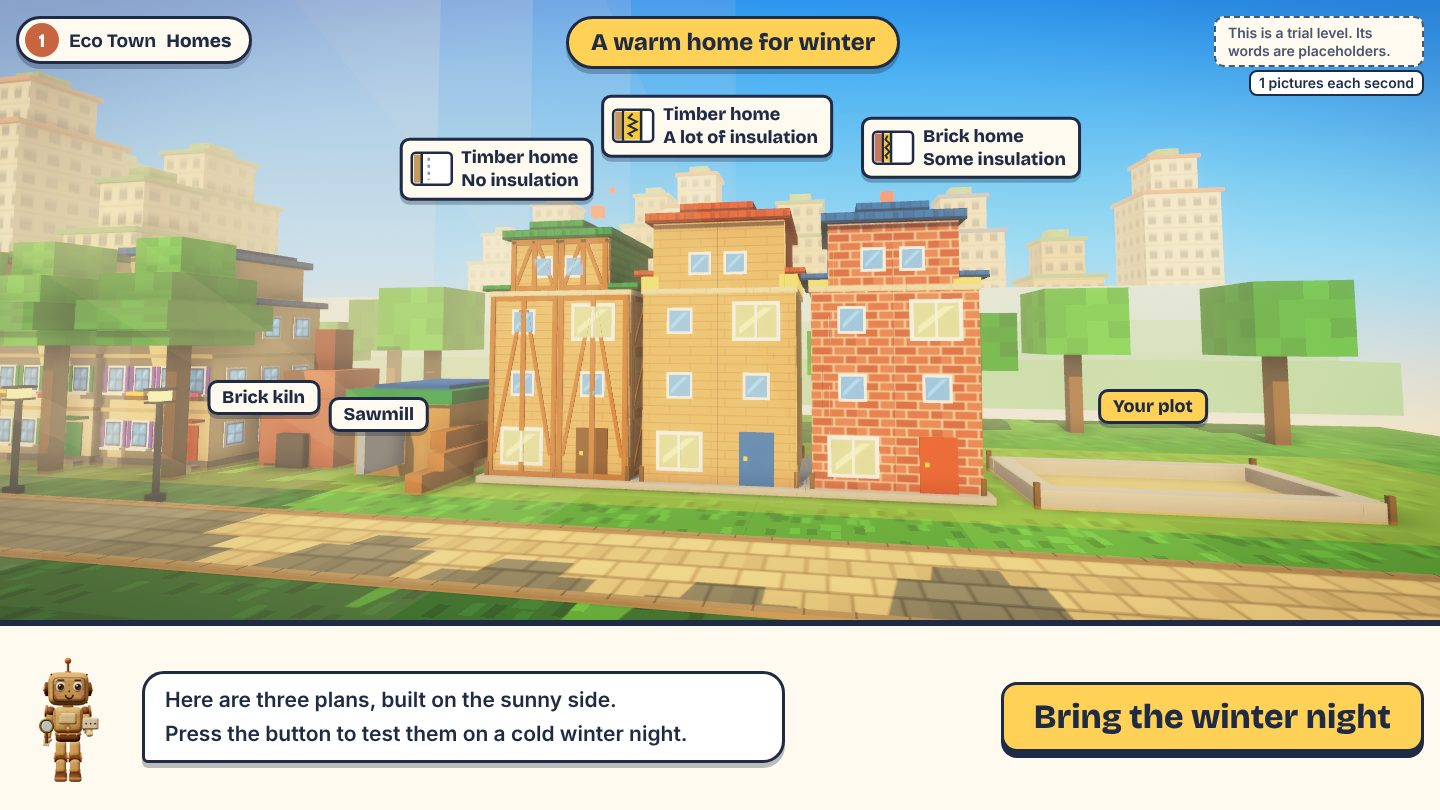
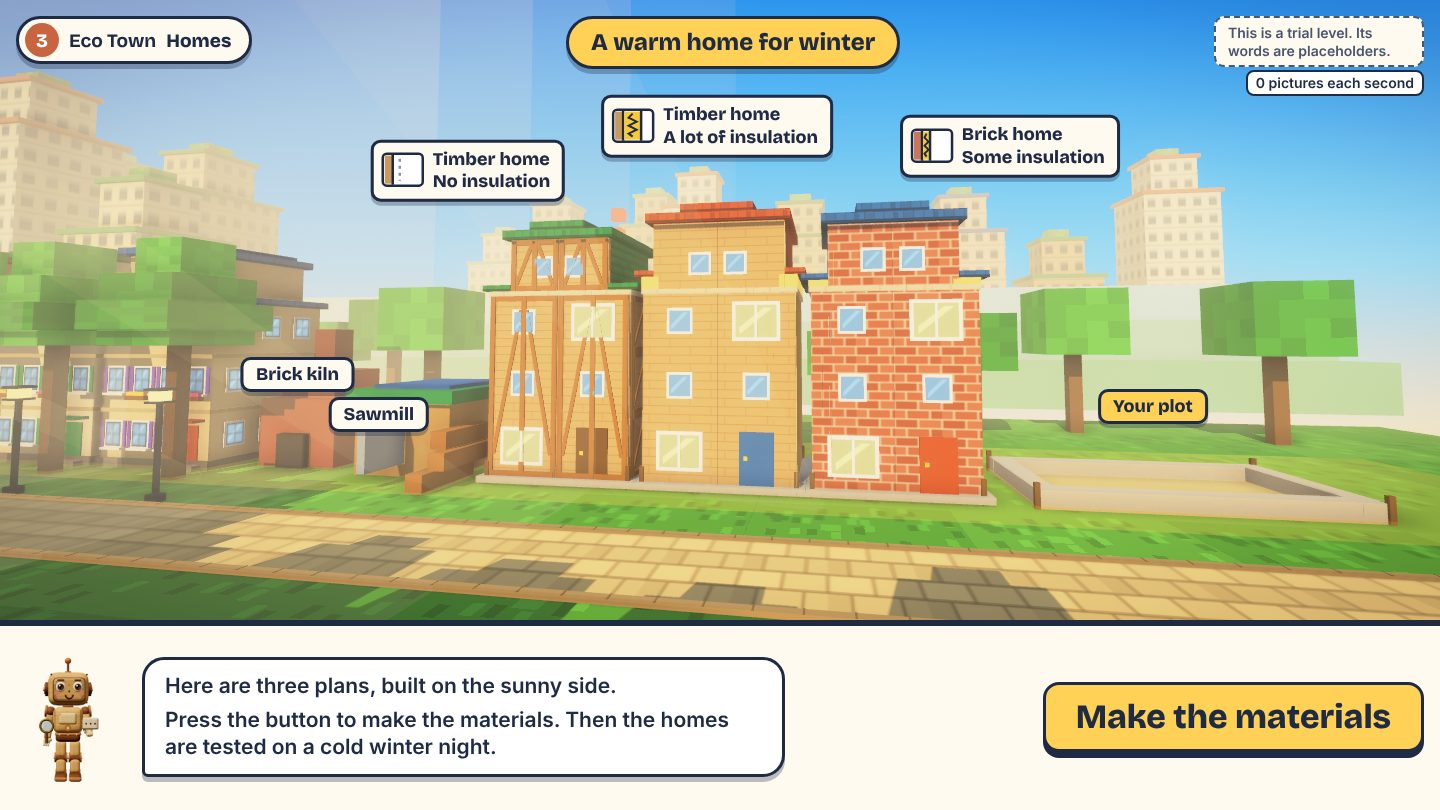
Homes: the round of rework finished, checked from start to finish, and recorded again
The level was played through four times on two full paths, and every run reached
the last closing picture. Faults seen in the pictures were repaired: the tags of the
plans no longer overlap on a narrow screen, the signs behind the result cards are
hidden, the room signs go when the front wall closes the home, and the sign "Warm"
is no longer hidden under the band in the closing picture. Both paths were recorded
again, the pictures of the first build's third path were removed, and NOTES.md now
says what was run, what was not, and what still stands in the way.

Claude-Session: https://claude.ai/code/session_01Ecde5Lvgabpd1qnHSP6bP6

diff --git a/docs/redesign/concepts/trial/trial.js b/docs/redesign/concepts/trial/trial.js
@@ -167,13 +167,15 @@ function town() { const s = newScene(58, { sun: [-10, 36, 48], tx: -22 }), g = s
       { const Zs = (zz) => (s.side ? -zz : zz), fireM = new THREE.MeshBasicMaterial({ color: '#3a2a22' }), cart = (x, zz, load) => { const c = group(wk, x + 34, 0, Zs(zz)); blk(c, 0, 0, 1.5, 0.9, 0.3, 0.2, '#6b4a2c', { mat: M('#6b4a2c', { raw: true }) }); for (const a of [-0.5, 0.5]) for (const b of [-0.5, 0.5]) blk(c, a, b, 0.4, 0.14, 0, 0.4, '#2b3a55', { mat: M('#2b3a55', { raw: true }) }); for (let k = 0; k < 3; k++) blk(c, 0, 0, 1.3 - k * 0.2, 0.7, 0.5 + k * 0.22, 0.22, load, { mat: M(k % 2 ? load : tone(load), { raw: true }) }); c.visible = false; return c; };
         const log = C(-32, -7, 0.6, 2.6, 0.3, 0.6, '#8a5a34'), clay = C(KX, -7, 1.1, 1.1, 0.1, 0.7, '#b98a6a'), fire = blk(wk, KX + 34, Zs(1.56), 0.8, 0.22, 0.12, 0.85, '#000', { shadow: false, mat: fireM }); log.visible = clay.visible = false;
         s.wparts = { log, clay, saw, sawY: saw.position.y, fireM, fire, carts: [cart(-31.8, 4.3, '#c99a5e'), cart(KX - 0.4, 4.5, '#c9775a')], cx: [-31.8 + 34, KX - 0.4 + 34], put: (m, zz) => { m.position.z = Zs(zz); } }; }
-      s.wplates = [plate(s, T.works[0], [WX + 3.4, 2.6, z + (s.side ? -5 : 5)]), plate(s, T.works[1], [KWX, 3.2, z + (s.side ? -4.4 : 4.4)])]; } plots[s.side].forEach((p, k) => { p.mark.visible = false; });
+      s.wplates = [plate(s, T.works[0], [WX + 3.4, 2.6, z + (s.side ? -5 : 5)]), plate(s, T.works[1], [KWX + 2, 4.4, z + (s.side ? -4.4 : 4.4)])]; } plots[s.side].forEach((p, k) => { p.mark.visible = false; });
     for (let i = 0; i < 3; i++) { const x = PX[s.side ? i + 1 : 3 - i], hm = makeHome(g, { w: 7.3, d: 7, brick: PM[i] === 1, mat: MAT[PM[i]], ins: INSUL[i], roofC: ROOF[[2, 0, 1][i]], doorC: tone(DOOR[i]), M, tw, done: true, simple: true, sunny: () => s.side === 0, people: TESTERS[i] }), h = hm.g; h.position.set(x, 0.1, z); h.rotation.y = s.side ? Math.PI : 0; h.scale.setScalar(0.01);
       const cloud = []; for (let k = 0; k < [0, 0, 5][i]; k++) { const sz = 2.6 + hash(k, i) * 1.6, m = blk(g, 0, 0, sz, sz, 0, sz * 0.8, '#6d6763', { shadow: false, mat: soft(['#5f5a54', '#6d675f', '#514d48'][k % 3], 0.86) }); m.visible = false;
         cloud.push({ m, sz, from: [KWX, 7.6, z], to: [KWX + (hash(k, 5) - 0.5) * 8, 9.2 + k * 0.6 + hash(k, 9) * 1.2, z + (hash(k, 3) - 0.5) * 4], at: 0.3 + k * 0.55 }); }
-      const pl = plate(s, T.short[i], [x + (s.side ? -1 : 1) * (i - 1) * 3.4, i === 1 ? 15.8 : 14.2, z + (s.side ? -3.6 : 3.6)], 'pl'); pl.el.innerHTML = planTag(i); samples.push({ h, hm, cloud, plate: pl }); }
+      const pl = plate(s, T.short[i], [x + (s.side ? -1 : 1) * (i - 1) * 5, i === 1 ? 15.8 : 14.2, z + (s.side ? -3.6 : 3.6)], 'pl'); pl.el.innerHTML = planTag(i); samples.push({ h, hm, cloud, plate: pl }); }
     glide(VIEW.plans[s.side], 1.6); for (const q of samples) { beep(360, 0.07); await pop(q.h); if (me !== run) return; } };
-  s.showNames = () => { for (const o of [...samples.map((q) => q.plate), ...s.wplates]) o.hide = false; };
+  // the signs under the open homes are repeated on the result cards, which would cover them and leave only their edges showing, so they are hidden while the cards are up
+  s.hideFeel = () => { for (const q of samples) { if (q.feel) q.feel.hide = true; else q.noFeel = true; } };
+  s.showNames = () => { for (const o of samples.map((q) => q.plate)) o.hide = false; };   // the signs of the sawmill and the kiln are not needed on the results, where the cards would cut them off
   let cloudT = -1; const setClouds = (tt) => { for (const q of samples) for (const p of q.cloud) { const k = ease(Math.max(0, Math.min(1, (tt - p.at) / 2.4))); p.m.visible = k > 0; p.m.position.set(p.from[0] + (p.to[0] - p.from[0]) * k, p.from[1] + (p.to[1] - p.from[1]) * k, p.from[2] + (p.to[2] - p.from[2]) * k); p.m.scale.set(p.sz * (0.3 + 0.7 * k), p.sz * 0.8 * (0.3 + 0.7 * k), p.sz * (0.3 + 0.7 * k)); } };
   // the test: the materials are made and the pollution rises; then the cold night comes and the windows show the warmth
   s.run = async (stage, meter = () => {}, look = () => {}) => { const me = run, V = VIEW.plans[s.side], dz = s.side ? -1 : 1; famPlate.hide = plotPlate.hide = true; for (const q of samples) q.plate.hide = true; await glide({ eye: [-32.5, 3.5, SIDEZ[s.side] + dz * 20.5], at: [-40, 5.6, SIDEZ[s.side]], fov: 42 }, 1.6);
@@ -186,7 +188,7 @@ function town() { const s = newScene(58, { sun: [-10, 36, 48], tx: -22 }), g = s
     // the front walls open by themselves, and the camera walks slowly past the three homes, so that the family in each one is seen before any card
     { const z = SIDEZ[s.side], near = (x) => ({ eye: [x + (s.side ? 1 : -1), 7, z + dz * 21.5], at: [x + (s.side ? 3.6 : -3.6), 7.5, z], fov: 53 }); look(); for (const o of [...s.wplates, ...samples.map((q) => q.plate)]) o.hide = true; await glide(near(samples[0].h.position.x), 1.5); if (me !== run) return false; for (const i of [0, 1, 2]) s.openSample(i); await wait(2.6); await gate('open-1'); if (me !== run) return false; await glide(near(samples[1].h.position.x), 2.3); await gate('open-2'); await glide(near(samples[2].h.position.x), 2.3); if (me !== run) return false; await wait(1.6); await gate('open-3'); } return me === run; };
   // a sample home opens when the child taps it. The people inside are seen first, and the sign comes a moment later
-  s.openSample = (i) => { const q = samples[i], lv = level(i), me = run; if (q.open) return; q.open = true; beep(700, 0.15); tw(1.3, (k) => q.hm.setOpen(back(k))).then(() => wait(0.5)).then(() => { if (me === run && !q.feel) { q.feel = plate(s, '', [q.h.position.x + (s.side ? 2.5 : -2.5), 0.7, SIDEZ[s.side] + (s.side ? -6.3 : 6.3)], lv === 'g' ? 'pl on' : 'pl'); q.feel.el.innerHTML = `${PLANS[i].icon}<span><b>${esc(PLANS[i].lines[1])}</b><b>${esc(T.feel[lv])}</b></span>`; } }); };
+  s.openSample = (i) => { const q = samples[i], lv = level(i), me = run; if (q.open) return; q.open = true; beep(700, 0.15); tw(1.3, (k) => q.hm.setOpen(back(k))).then(() => wait(0.5)).then(() => { if (me === run && !q.feel && !q.noFeel) { q.feel = plate(s, '', [q.h.position.x + (s.side ? 2.5 : -2.5), 0.7, SIDEZ[s.side] + (s.side ? -6.3 : 6.3)], lv === 'g' ? 'pl on' : 'pl'); q.feel.el.innerHTML = `${PLANS[i].icon}<span><b>${esc(PLANS[i].lines[1])}</b><b>${esc(T.feel[lv])}</b></span>`; } }); };
 
   // ---- the family's home, built by the child ----
   let H = null;
@@ -237,12 +239,12 @@ function town() { const s = newScene(58, { sun: [-10, 36, 48], tx: -22 }), g = s
       if (me === run) next(); };
     for (const q of all) if (q !== front) hitBox(s, q.wg, 0, 0, -T0 / 2 - 0.4, q.def.len, q.hh, T0 + 1.3, () => !s.done && !busy && setOf() === hm.walls[q.f] && q.n === LAYER[tool], () => wallTap(q)).frame = q.mark;
     // the front wall goes on with all its layers and its windows. Where the sun reaches them, a shaft of sunlight comes in
-    hitBox(s, hg, 0, Y0, HD / 2 - 0.2, HW, TOP - Y0, 1.6, () => !s.done && !busy && phases[ph] === 'F', async () => { busy = true; note = ''; show(); for (const key of seq) { front.n++; beep(380 + front.n * 90, 0.12); await Promise.all(hm.leaves.map((l) => rise(l[KEY[key]], 0.36))); } if (me !== run) return; const sunny = sd === 0;
+    hitBox(s, hg, 0, Y0, HD / 2 - 0.2, HW, TOP - Y0, 1.6, () => !s.done && !busy && phases[ph] === 'F', async () => { busy = true; note = ''; show(); for (const key of seq) { front.n++; beep(380 + front.n * 90, 0.12); await Promise.all(hm.leaves.map((l) => rise(l[KEY[key]], 0.36))); } if (me !== run) return; const sunny = sd === 0; for (const q of roomPlates) q.hide = true;   // the rooms cannot be seen behind the front wall, so their signs go
       for (const i of [0, 4]) { const q = hm.spots[i]; hm.putWindow(i, sunny); H.wins.push(i); pop(q.p); if (sunny) { const w = hg.localToWorld(new THREE.Vector3(...q.c)), b = new THREE.Mesh(new THREE.BoxGeometry(1.9, 1.5, 9), beamMat); b.position.copy(w).addScaledVector(sunDir, 4.6); b.lookAt(w.clone().addScaledVector(sunDir, 20)); g.add(b); H.beams.push(b); } }
       beep(sunny ? 880 : 520, 0.14); if (sunny) setTimeout(chime, 120); note = sunny ? T.b.winSun : T.b.winShade; next(); }).frame = hm.frontMark;
     // A floor is lowered into place. The warm air then rises as far as the top of the storey above it. The first floor to go in is the one the child chose, and a sign names each room until the furniture shows what it is
     hm.slabs.forEach((slab, i) => { hitBox(s, hg, 0, slab.userData.y - 1.2, 0, HW, 2, HD, () => !s.done && !busy && phases[ph] === 'floor' && nf === i && !(i === 0 && room === null), async () => { busy = true; note = ''; show(); if (i === 0) { s.bedsTop = room === 'L'; hm.setRooms(s.bedsTop); } slab.visible = true; beep(300, 0.15, 'sine', 0.1); await tw(0.7, (k) => { slab.position.y = slab.userData.y + 3 * (1 - ease(k)); }); if (me !== run) return; nf++;
-      if (i < 2) roomPlates.push(plate(s, (i === 0) === s.bedsTop ? T.b.living : T.b.beds, hg.localToWorld(new THREE.Vector3(-HW / 2 + 2.6, YF[i + 1] + 2.3, HD / 2)).toArray()));
+      if (i < 2) roomPlates.push(plate(s, (i === 0) === s.bedsTop ? T.b.living : T.b.beds, hg.localToWorld(new THREE.Vector3(-HW / 2 + 2.6, YF[i + 1] + 1.7, HD / 2)).toArray()));
       glide(bview([0.42, 0.72, 1][i]), 1.4); hm.heat.stage = 2; hm.heat.top = i === 2 ? YA + AH : YF[i + 1] + FH; if (i === 0) note = T.upFloor; next(); }).frame = hm.slabMarks[i]; });
     hitBox(s, hg, 0, YA - 0.3, 0, HW + 1.4, AH + 2, HD + 1.4, () => !s.done && !busy && phases[ph] === 'roof', async () => { busy = true; note = ''; show();
       if (rn === 0) { hm.rb.visible = true; hm.rb.scale.setScalar(0.01); beep(420, 0.1); await pop(hm.rb); } else if (rseq[rn] === 'rins') { beep(520, 0.1); await rise(hm.ri); hm.heat.stage = 3; hm.heat.leak = INSUL[pick] === 2 ? 0 : 0.23; note = INSUL[pick] === 2 ? T.roofWarm : T.roofThin; if (INSUL[pick] === 2) for (const k of [0, 1, 2]) hm.hop(k); }
@@ -279,7 +281,7 @@ function town() { const s = newScene(58, { sun: [-10, 36, 48], tx: -22 }), g = s
     const yc = lv === 'g' ? hm.bedY() + 1.5 : lv === 'p' ? 3.6 : null, zs = sd ? -1 : 1, me = run;
     // the front wall opens, and then the camera goes in close: to the beds if the family is warm, and to the heater if they are cold
     tw(2.6, (k) => hm.setOpen(back(Math.max(0, (k - 0.45) / 0.55)))).then(() => wait(0.6)).then(() => gate('night-home-1')).then(() => { if (yc && me === run) return glide({ eye: [sd ? 1.7 : 2.3, yc + 0.2, zs * 1.5], at: [2, yc, -zs * 12.7], fov: 46 }, 2.4).then(() => wait(1.2)).then(() => gate('night-home-2')); });
-    plate(s, T.feel[lv], [PX[0], yc ? yc - 4.3 : 0.8, z0 + (sd ? -5 : 5)], lv === 'g' ? 'on' : ''); if (yours) yours.hide = true; if (lv === 'g') { chime(); setTimeout(() => { for (const k of [0, 1, 2]) hm.hop(k); }, 2300 / SPEED); } };
+    plate(s, T.feel[lv], [PX[0], yc ? yc + 2.2 : 0.8, z0 + (sd ? -5 : 5)], lv === 'g' ? 'on' : ''); if (yours) yours.hide = true; if (lv === 'g') { chime(); setTimeout(() => { for (const k of [0, 1, 2]) hm.hop(k); }, 2300 / SPEED); } };
   // ---- the recap: the child taps one side of the street ----
   s.recap = (on) => { const marks = SIDEZ.map((z, sd) => { const m = glowMarks(place(g, -12, sd ? 5 : -5, 36, 2.4, 0.12)), pl = plate(s, T.thisSide, [-3, 1.4, sd ? 5.2 : -5.2], 'tap'); hitBox(s, g, -12, 0, z + (sd ? -4 : 4), 44, 10, 9, () => s.answer === undefined, () => go(sd)); pl.el.onclick = () => { if (s.answer === undefined) go(sd); }; return { m, pl }; });
     const stuff = marks.map((q) => q.m); s.recapOff = () => { for (const m of stuff) m.visible = false; for (const q of marks) q.pl.hide = true; };
@@ -331,7 +333,7 @@ function homesScene() { const s = town(), drawWords = s.words;
   s.asking = () => { s.showFamily(); if (s.side !== null) glide(VIEW.street, 1); impactPanel(null); s.clearPlans(); s.setNight(0); };
   s.wordTapped = (gap, k) => { glide(gap === 0 ? { ...VIEW.street, at: [-10, 3, k ? 6 : -6] } : VIEW.street, 0.9); beep(gap === 0 ? 620 : 500, 0.08); };
   s.test = (api) => { impactPanel([0, 0]); return s.run(() => api.step(T.nightStep), impactPanel, () => api.say(T.nightLook)); };
-  s.showResults = () => { s.showNames(); for (const k of [0, 1, 2]) s.openSample(k); glide(VIEW.plans[s.side], 1.2); };
+  s.showResults = () => { s.showNames(); for (const k of [0, 1, 2]) s.openSample(k); s.hideFeel(); glide(VIEW.plans[s.side], 1.2); };
   s.playBreak = (i, api) => playBreak(s, i, api);
   s.town = (pick) => s.fill(pick);
   return s; }

diff --git a/docs/redesign/concepts/trial/NOTES.md b/docs/redesign/concepts/trial/NOTES.md
@@ -41,13 +41,45 @@ The band under the picture shows only what matters at each moment: the one part 
 
 - `trial.js` holds the words, the street, the test, the plans and results, and the play break.
 - `home.js` is the dollhouse. It gained `setRooms`, which swaps the living room and the bedrooms, and `setRoof`, which changes the colour of the roof.
-- `play.mjs` plays the level through and saves the pictures. It is run as `node play.mjs <folder> [width] [height] [side 0 or 1] [middle floor L or B] [plan 0 to 2]`. It now adds `&gate` to the address. With `&gate`, the level stops at a few named moments in the middle of an animation until the script has taken its picture. This was needed because the recording machine was shared by six recordings and drew less than one picture each second, so pictures taken by the clock missed the test altogether. Without `&gate` in the address the level never waits.
+- `play.mjs` plays the level through and saves the pictures. It is run as `node play.mjs <folder> [width] [height] [side 0 or 1] [middle floor L or B] [plan 0 to 2]`. It tells the browser to wait up to five minutes for the page and for the level to appear, because the kit's helper allows only half a minute and the shared machine sometimes needs longer. It now adds `&gate` to the address. With `&gate`, the level stops at a few named moments in the middle of an animation until the script has taken its picture. This was needed because the recording machine was shared by six recordings and drew less than one picture each second, so pictures taken by the clock missed the test altogether. Without `&gate` in the address the level never waits.
 - The kit in `../level-kit/` was not changed.
 
 ## What was run, and what was not
 
-RUN_SECTION
+The designer who began this round was stopped before any of its changes had been confirmed by a finished recording. A second designer finished the round on the same day. It played the level through from start to finish four times, and every run reached the last closing picture with no error from the page.
+
+- The good plan at 1440 by 810: the sunny side, the living room chosen for the middle floor, the timber home with a lot of insulation, then "Try another plan" with the brick home and back to the first plan, and the recap answered with the wrong side, to show that it does not block. The pictures are in `pictures/sunny-timber-lot-1440/`.
+- Another plan at 1024 by 640: the shady side, the bedrooms chosen for the middle floor, the brick home with some insulation, then "Try another plan" with the timber home with no insulation and back to the first plan, and the recap answered with the right side. The pictures are in `pictures/shady-brick-1024/`.
+- The folder `pictures/sunny-timber-none-1440/` held pictures of the first build, which no longer match the level, and it was removed. The older folders whose names begin with `before-and-after` are kept as a record of earlier owner decisions.
+- Two earlier runs of the same two paths found the faults listed below, which were then repaired before the two recordings above were made.
+- The level was also opened inside a frame with `?next=Go on`, as the whole game opens it, and taken straight to its closing picture with `window.trial.end()`. The chip showed 3, the last picture did not say that the trial level had ended, the buttons were "Play again" and "Go on", and the page told the frame that the level had ended.
+
+Every picture of both recordings was looked at in full. These faults were found in the earlier runs and repaired:
+
+- The tags of the three plans overlapped at 1024 by 768, so that "Timber home" on the first tag was hidden. They now stand further apart. The sign "Brick kiln" was cut off by the right edge of the picture on the shady side, and now stands a little further in.
+- On the results, the edges of the signs under the open homes and of the sign "Brick kiln" showed between the cards. They are now hidden while the cards are up, because the cards say the same.
+- The signs "Living room" and "Bedrooms" stayed over the home after the front wall had closed it, where the rooms cannot be seen. They now go when the front wall goes on, and they stand a little lower, inside their rooms.
+- In the closing picture of a warm home, the sign "Warm" was hidden under the band when the camera came close to the beds. It now stands above the beds.
+
+These were not run: the third plan on either side (the timber home with no insulation was seen only as the second try, and never through its own play break, which is shorter because it has no insulation); "Ask again"; closing and opening the front wall a second time; the whole game played by hand from Land to School; and any real Windows computer. The recording machine was shared by six recordings and drew at most one picture each second, so the times that the script prints are far too long and say nothing about how long a child takes. No fair estimate of the length was made in this round.
 
 ## What still stands in the way
 
-WEAK_SECTION
+- The places where the materials are made, the sawmill and the kiln, are plain boxes with no people working there. The meter carries the test, and the place itself does little.
+- The warm air that rises through the home is drawn as a column of orange cubes. It tells the story while the home is built, but in the closing picture of the family asleep it looks like clutter in the attic.
+- A snowflake that falls close to the camera in the night street is drawn as a large white block.
+- On a screen as narrow as 1024 by 640, the sign "No insulation" under the first open home touches the left edge of the picture during the test.
+- On a screen as narrow as 1024 by 640 the result cards cover most of the town, as they do in every level, because the cards come from the shared kit.
+- "Play again" is on the band from the first moment of the closing picture, so a child can leave before the camera reaches the family's home. The button comes from the shared kit.
+- The two real decisions in the play break, which floor goes in the middle and whose wall gets its insulation first, are good ones, but the rest of the building is still one tap for each part. A child who only follows the yellow places can finish without thinking.
+- The owner has not given the words for brick on the meter, so the brick card only says how far the meter rose.
+
+## Answers to the owner's four questions (24 November 2026, at the end of this round)
+
+Is the level long enough? I think so. A child builds a home of three floors and an attic, sees it furnished, builds the street and spends a winter night in it, and that is a full level. No fair measurement of its length could be made on the shared machine, so this is a judgement and not a number.
+
+Does it need more activities or scenes? It does not need more scenes. The one thing I would add is a little more life in the sawmill and the kiln, so that the test is as rich to look at as the play break.
+
+Am I proud of my work? Mostly, yes. The dollhouse, the family by their cold walls, and the choice of which floor is warmest make a real lesson that a child can see. I am less proud of the materials scene and of the column of warm air in the closing picture.
+
+Am I impressed by the experience a child gets? Yes, by the moment the front wall opens on the home the child built and the family is in the rooms the child chose. The level is weaker between those moments, where much of the building is following the yellow places.
